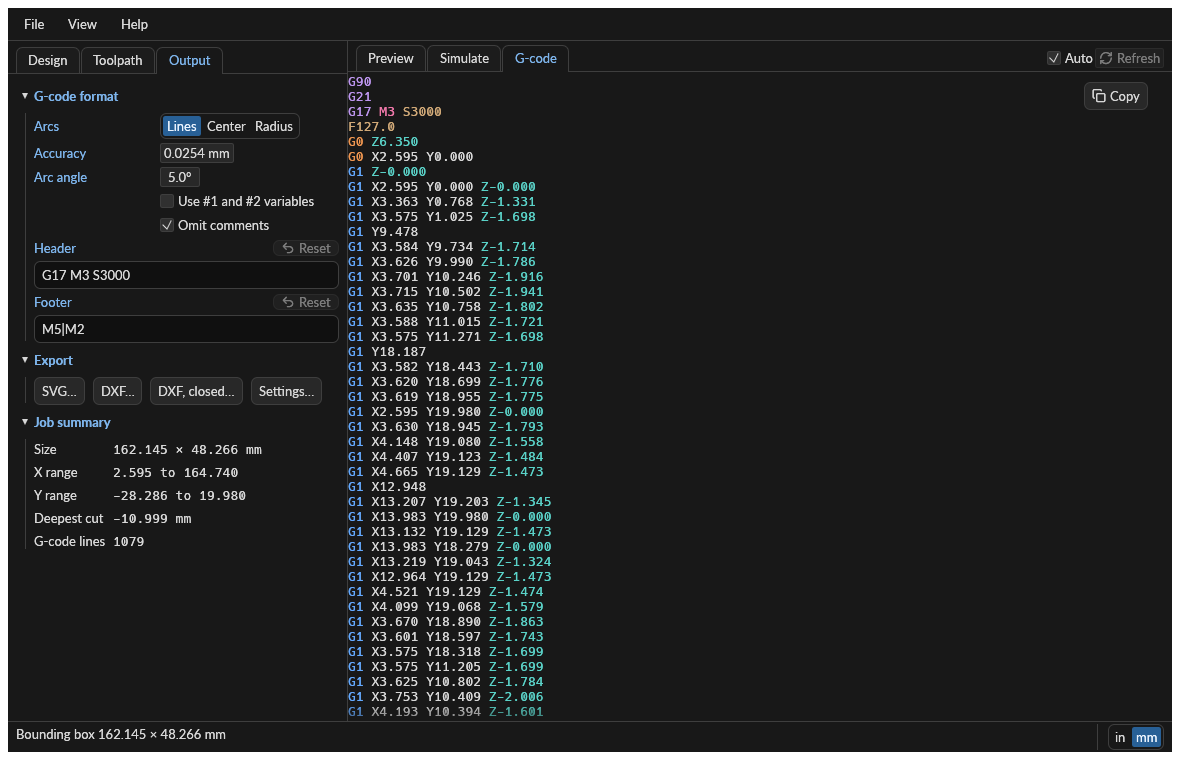
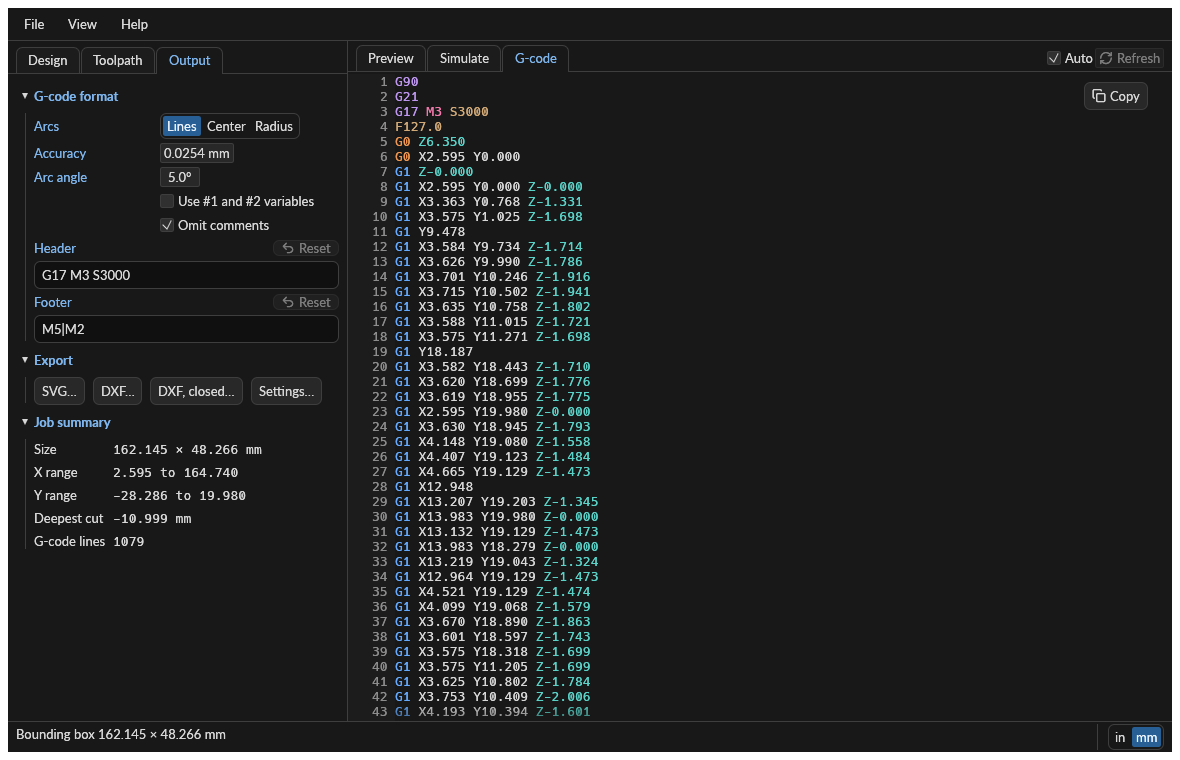
Show line numbers in a gutter beside the G-code
The numbers are painted outside the text field, so they cannot be selected
or copied.

Changed region(s): [[0.2746, 0.0908, 0.5186, 0.9382]]

diff --git a/crates/rengrave_gui/src/app.rs b/crates/rengrave_gui/src/app.rs
@@ -1239,26 +1239,63 @@ impl RengraveApp {
                         .map(|range| range.slice_str(&text).to_owned())
                         .unwrap_or_default();
                 }
-                let width = ui.available_width().max(galley.size().x + 16.0);
-                egui::ScrollArea::both().auto_shrink(false).show(ui, |ui| {
-                    // A read-only buffer: it can be selected and copied, but not edited.
-                    let mut buffer: &str = &text;
-                    let mut layouter = |_: &Ui, _: &dyn egui::TextBuffer, _: f32| galley.clone();
-                    let output = egui::TextEdit::multiline(&mut buffer)
-                        .id(id)
-                        .layouter(&mut layouter)
-                        .desired_width(width)
-                        .frame(egui::Frame::NONE)
-                        .show(ui);
-                    if let Some(range) = kept
-                        && let Some(mut state) = egui::TextEdit::load_state(ui.ctx(), id)
-                    {
-                        state.cursor.set_char_range(Some(range));
-                        state.store(ui.ctx(), id);
-                    }
-                    output
-                        .response
-                        .context_menu(|ui| self.gcode_context_menu(ui));
+                // Line numbers are painted in a gutter beside the text. They are not part of the
+                // text, so they cannot be selected or copied.
+                let digits = lines.len().max(1).to_string().len().max(3);
+                let gutter_width = ui
+                    .painter()
+                    .layout_no_wrap("0".repeat(digits), font.clone(), plain)
+                    .size()
+                    .x
+                    + 16.0;
+                let full = ui.available_rect_before_wrap();
+                let (gutter, rest) = full.split_left_right_at_x(full.left() + gutter_width);
+                let gutter_painter = ui.painter().with_clip_rect(gutter);
+                let number_color = ui.visuals().weak_text_color();
+                gutter_painter.rect_filled(gutter, 0.0, ui.visuals().faint_bg_color);
+                gutter_painter.vline(
+                    gutter.right(),
+                    gutter.y_range(),
+                    ui.visuals().widgets.noninteractive.bg_stroke,
+                );
+                let line_count = lines.len();
+                ui.scope_builder(egui::UiBuilder::new().max_rect(rest), |ui| {
+                    let width = ui.available_width().max(galley.size().x + 16.0);
+                    egui::ScrollArea::both().auto_shrink(false).show(ui, |ui| {
+                        // A read-only buffer: it can be selected and copied, but not edited.
+                        let mut buffer: &str = &text;
+                        let mut layouter =
+                            |_: &Ui, _: &dyn egui::TextBuffer, _: f32| galley.clone();
+                        let output = egui::TextEdit::multiline(&mut buffer)
+                            .id(id)
+                            .layouter(&mut layouter)
+                            .desired_width(width)
+                            .frame(egui::Frame::NONE)
+                            .show(ui);
+                        if let Some(range) = kept
+                            && let Some(mut state) = egui::TextEdit::load_state(ui.ctx(), id)
+                        {
+                            state.cursor.set_char_range(Some(range));
+                            state.store(ui.ctx(), id);
+                        }
+                        // Each line is one row of the galley, so the numbers follow the text.
+                        for (index, row) in output.galley.rows.iter().take(line_count).enumerate() {
+                            let y = output.galley_pos.y + row.pos.y;
+                            if y + row.height() < gutter.top() || y > gutter.bottom() {
+                                continue;
+                            }
+                            gutter_painter.text(
+                                egui::pos2(gutter.right() - 8.0, y),
+                                egui::Align2::RIGHT_TOP,
+                                index + 1,
+                                font.clone(),
+                                number_color,
+                            );
+                        }
+                        output
+                            .response
+                            .context_menu(|ui| self.gcode_context_menu(ui));
+                    });
                 });
             }
             Err(e) => {
